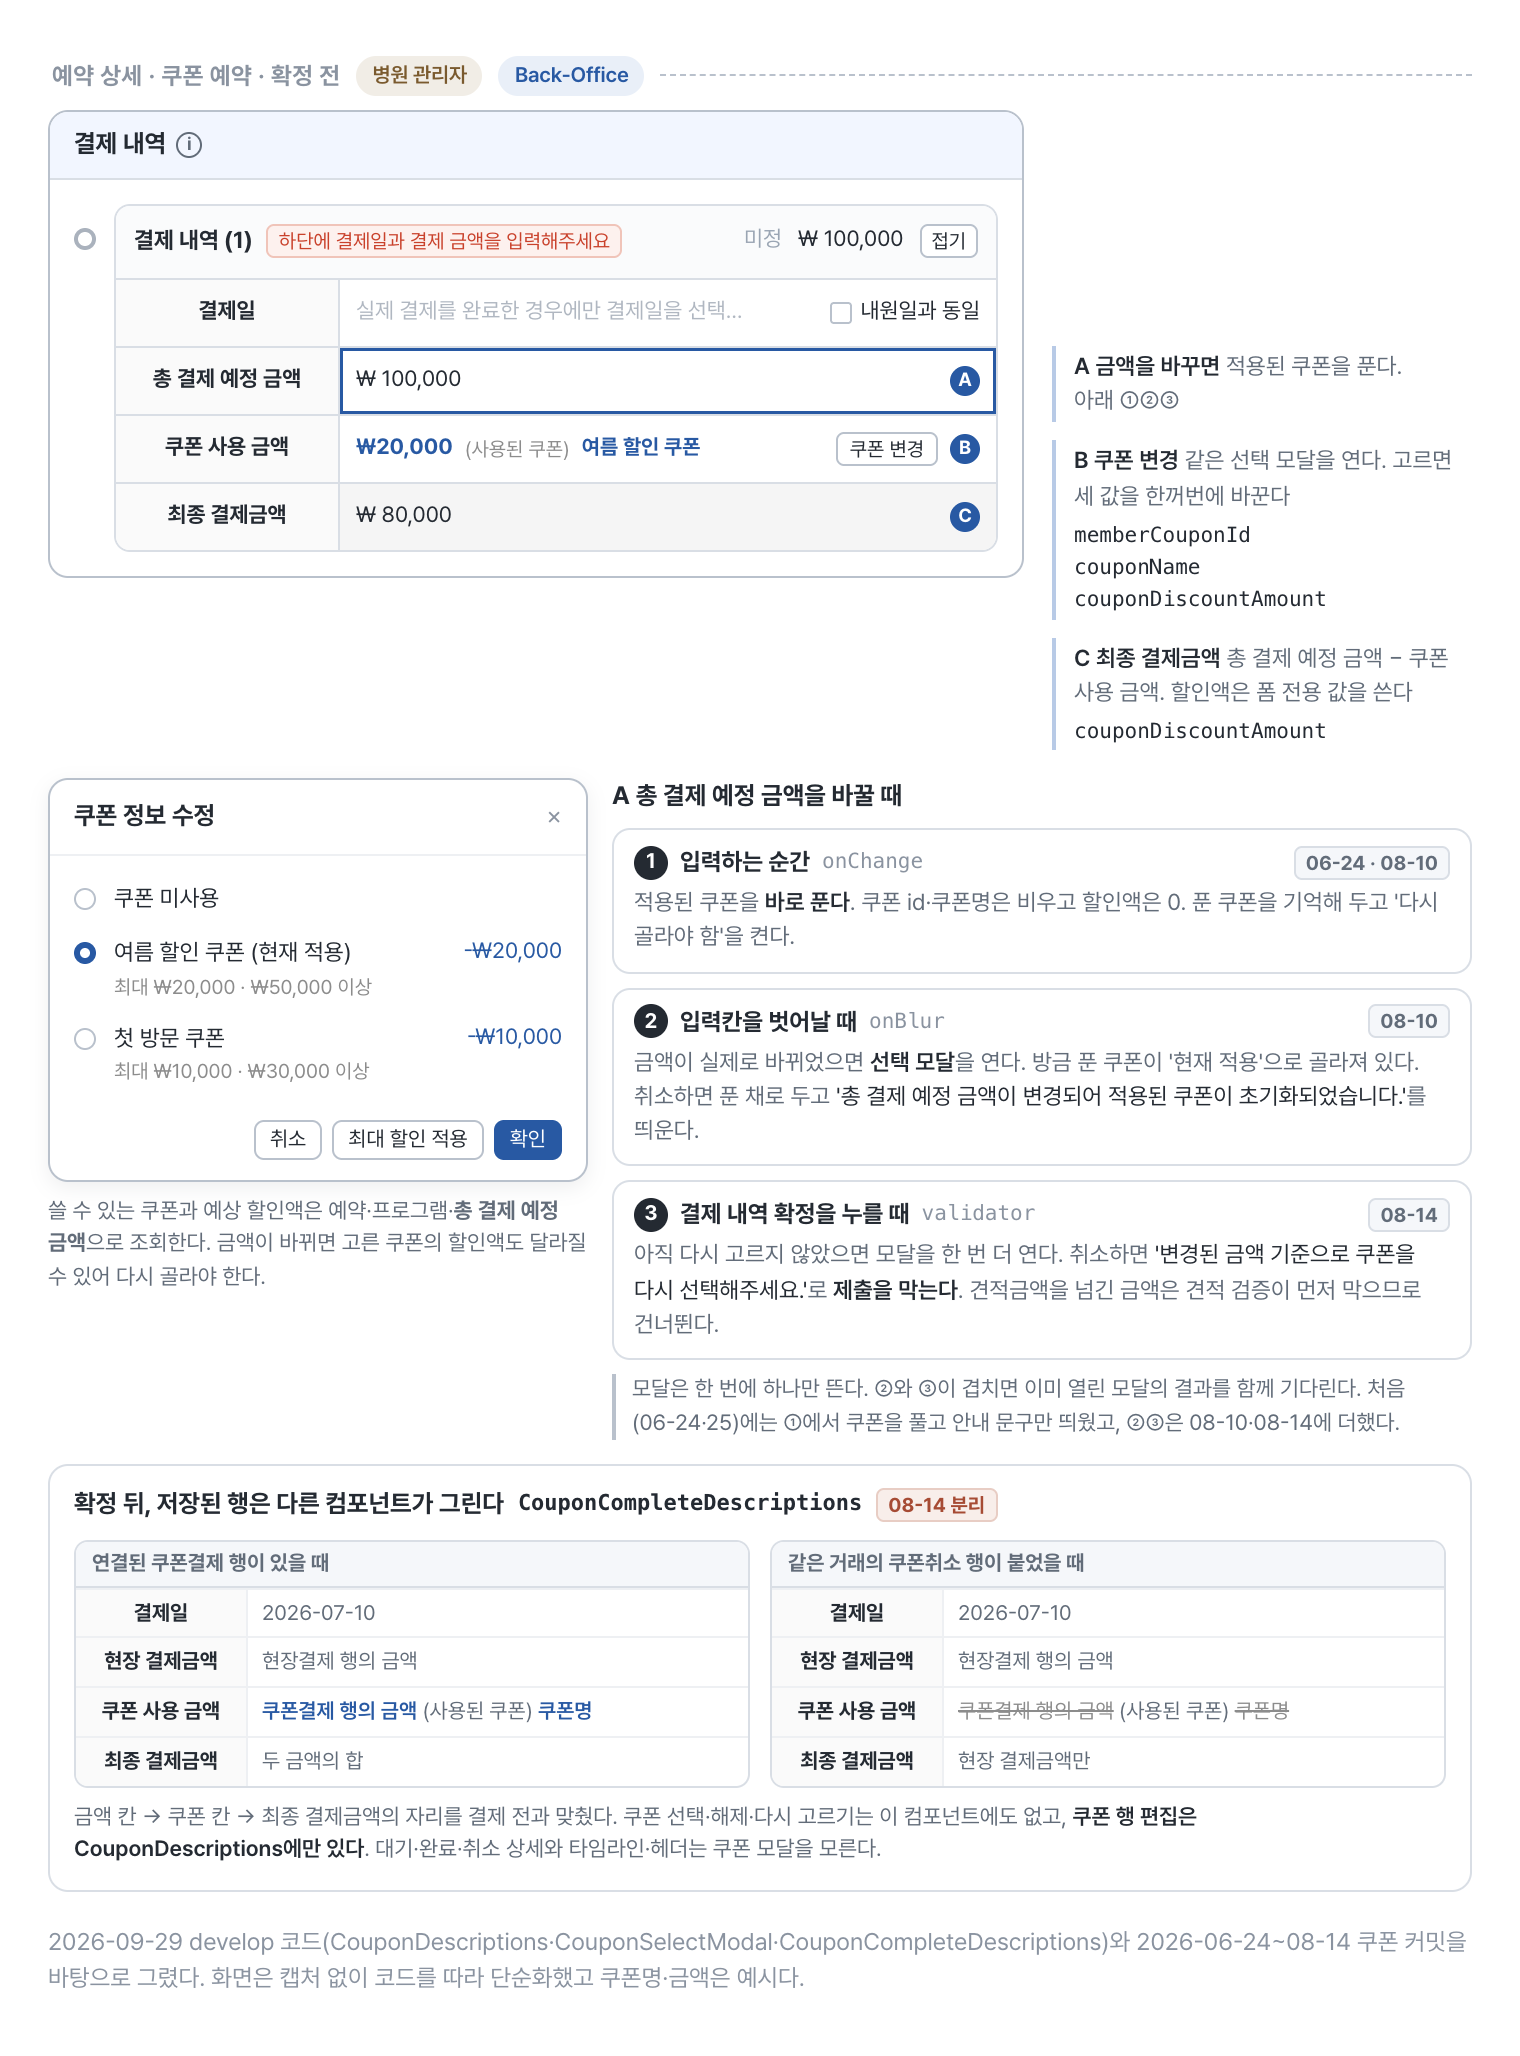
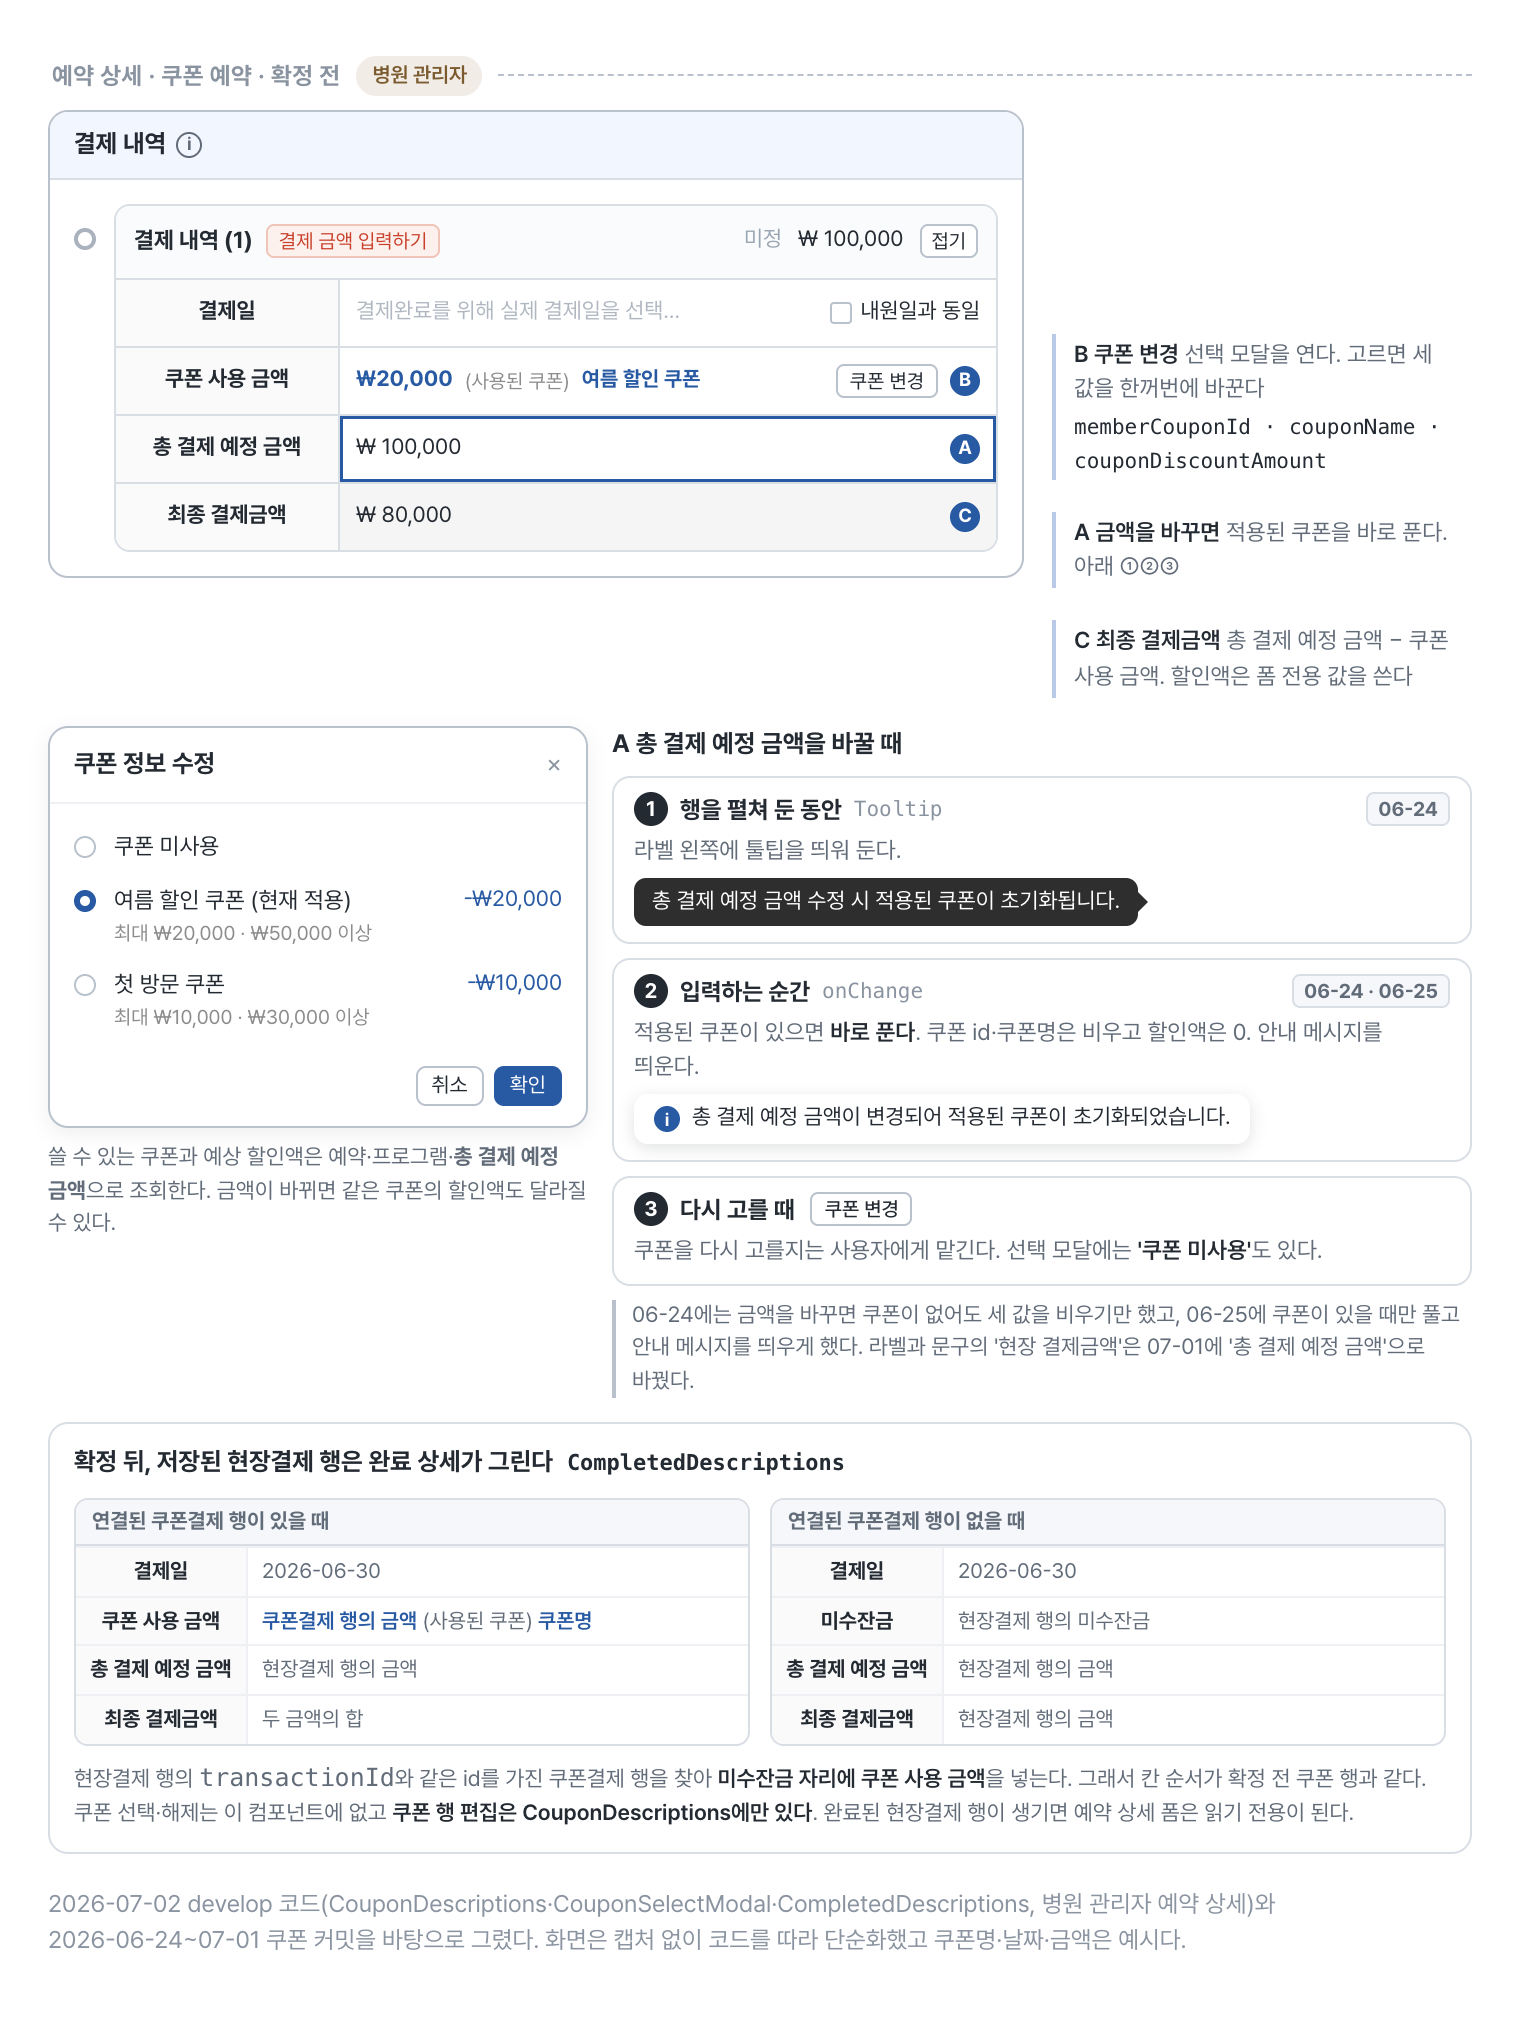
docs(blog): 쿠폰 행 편집 그림을 당시 툴팁·즉시 해제 단계로 다시 그린다

diff --git a/blog/assets/figures/payment-history/src/03-coupon-descriptions.html b/blog/assets/figures/payment-history/src/03-coupon-descriptions.html
@@ -4,7 +4,11 @@
   body { word-break: keep-all; }
   .zone { font-size: 12px; font-weight: 700; color: var(--faint); letter-spacing: 0.2px; margin: 0 0 7px 2px; display: flex; align-items: center; gap: 8px; }
   .zone::after { content: ''; flex: 1; border-top: 1px dashed var(--line-strong); }
-  .zone .app { font-size: 10.5px; }
+  .svc { display: inline-block; font-size: 10.5px; font-weight: 600; padding: 2px 8px; border-radius: 999px; letter-spacing: -0.1px; background: #f1ede6; color: #7a5a2e; }
+  .tipbox { display: inline-block; margin-top: 5px; background: rgba(0, 0, 0, 0.82); color: #fff; font-size: 11px; line-height: 1.45; border-radius: 6px; padding: 4px 9px; position: relative; }
+  .tipbox::after { content: ''; position: absolute; right: -5px; top: calc(50% - 5px); border-top: 5px solid transparent; border-bottom: 5px solid transparent; border-left: 5px solid rgba(0, 0, 0, 0.82); }
+  .toast { display: inline-flex; align-items: center; gap: 6px; margin-top: 5px; background: #fff; border-radius: 7px; box-shadow: 0 2px 8px rgba(36, 42, 50, 0.14); font-size: 11px; color: var(--ink); padding: 4px 10px; }
+  .toast i { font-style: normal; width: 13px; height: 13px; border-radius: 50%; background: var(--blue); color: #fff; font-size: 9px; font-weight: 700; display: inline-flex; align-items: center; justify-content: center; }
 
   /* 화면 */
   .screen { display: grid; grid-template-columns: 488px minmax(0, 1fr); gap: 14px; align-items: start; }
@@ -37,7 +41,7 @@
   .mk { display: inline-flex; align-items: center; justify-content: center; width: 16px; height: 16px; border-radius: 50%; background: var(--blue); color: #fff; font-size: 10px; font-weight: 700; flex-shrink: 0; }
   .mk.sm { width: 15px; height: 15px; font-size: 9.5px; }
 
-  .side { display: flex; flex-direction: column; gap: 9px; padding-top: 118px; min-width: 0; }
+  .side { display: flex; flex-direction: column; gap: 16px; padding-top: 112px; min-width: 0; }
   .anno { border-left: 2px solid var(--blue-line); padding: 2px 0 2px 9px; font-size: 11.5px; color: var(--sub); line-height: 1.5; }
   .anno b { color: var(--ink); font-weight: 600; }
   .anno code { font-size: 10.5px; color: var(--ink); }
@@ -91,7 +95,7 @@
 </style></head>
 <body>
 
-<div class="zone">예약 상세 · 쿠폰 예약 · 확정 전 <span class="app pa">병원 관리자</span><span class="app bo">Back-Office</span></div>
+<div class="zone">예약 상세 · 쿠폰 예약 · 확정 전 <span class="svc">병원 관리자</span></div>
 
 <div class="screen">
   <div class="mock">
@@ -99,19 +103,19 @@
     <div class="tl">
       <span class="dot"></span>
       <div class="col">
-        <div class="ch"><b>결제 내역 (1)</b><span class="t red">하단에 결제일과 결제 금액을 입력해주세요</span><span class="r">미정<span class="amt">₩ 100,000</span><span class="xbtn">접기</span></span></div>
-        <div class="dr"><span>결제일</span><span class="ph">실제 결제를 완료한 경우에만 결제일을 선택…<span class="cbx">내원일과 동일</span></span></div>
-        <div class="dr hl"><span>총 결제 예정 금액</span><span>₩ 100,000 <span class="mk sm" style="margin-left:auto">A</span></span></div>
+        <div class="ch"><b>결제 내역 (1)</b><span class="t red">결제 금액 입력하기</span><span class="r">미정<span class="amt">₩ 100,000</span><span class="xbtn">접기</span></span></div>
+        <div class="dr"><span>결제일</span><span class="ph">결제완료를 위해 실제 결제일을 선택…<span class="cbx">내원일과 동일</span></span></div>
         <div class="dr"><span>쿠폰 사용 금액</span><span><span class="cp">₩20,000</span><span class="cp-sub">(사용된 쿠폰)</span><span class="cp" style="font-size:10.5px">여름 할인 쿠폰</span><span class="sbtn">쿠폰 변경</span><span class="mk sm">B</span></span></div>
+        <div class="dr hl"><span>총 결제 예정 금액</span><span>₩ 100,000 <span class="mk sm" style="margin-left:auto">A</span></span></div>
         <div class="dr"><span>최종 결제금액</span><span class="fill">₩ 80,000 <span class="mk sm" style="margin-left:auto">C</span></span></div>
       </div>
     </div>
   </div>
 
   <div class="side">
-    <div class="anno"><b>A 금액을 바꾸면</b> 적용된 쿠폰을 푼다. <span class="nw">아래 ①②③</span></div>
-    <div class="anno"><b>B 쿠폰 변경</b> 같은 선택 모달을 연다. 고르면 세 값을 한꺼번에 바꾼다<span class="fl" style="margin-top:2px">memberCouponId</span><span class="fl">couponName</span><span class="fl">couponDiscountAmount</span></div>
-    <div class="anno"><b>C 최종 결제금액</b> 총 결제 예정 금액 − 쿠폰 사용 금액. 할인액은 폼 전용 값을 쓴다<span class="fl" style="margin-top:2px">couponDiscountAmount</span></div>
+    <div class="anno"><b>B 쿠폰 변경</b> 선택 모달을 연다. 고르면 세 값을 한꺼번에 바꾼다<span class="fl" style="margin-top:2px">memberCouponId · couponName ·<br>couponDiscountAmount</span></div>
+    <div class="anno"><b>A 금액을 바꾸면</b> 적용된 쿠폰을 바로 푼다. <span class="nw">아래 ①②③</span></div>
+    <div class="anno"><b>C 최종 결제금액</b> 총 결제 예정 금액 − 쿠폰 사용 금액. 할인액은 폼 전용 값을 쓴다</div>
   </div>
 </div>
 
@@ -124,49 +128,51 @@
         <div class="rd"><i class="on"></i><span>여름 할인 쿠폰 (현재 적용)<small>최대 ₩20,000 · ₩50,000 이상</small></span><span class="dc">-₩20,000</span></div>
         <div class="rd"><i></i><span>첫 방문 쿠폰<small>최대 ₩10,000 · ₩30,000 이상</small></span><span class="dc">-₩10,000</span></div>
       </div>
-      <div class="mf"><span>취소</span><span>최대 할인 적용</span><span class="p">확인</span></div>
+      <div class="mf"><span>취소</span><span class="p">확인</span></div>
     </div>
-    <p class="mnote">쓸 수 있는 쿠폰과 예상 할인액은 예약·프로그램·<b>총 결제 예정 금액</b>으로 조회한다. 금액이 바뀌면 고른 쿠폰의 할인액도 달라질 수 있어 다시 골라야 한다.</p>
+    <p class="mnote">쓸 수 있는 쿠폰과 예상 할인액은 예약·프로그램·<b>총 결제 예정 금액</b>으로 조회한다. 금액이 바뀌면 같은 쿠폰의 할인액도 달라질 수 있다.</p>
   </div>
 
   <div>
     <div class="steps-h">A 총 결제 예정 금액을 바꿀 때</div>
     <div class="step">
-      <div class="step-h"><span class="num">1</span>입력하는 순간<code>onChange</code><span class="when">06-24 · 08-10</span></div>
-      <p>적용된 쿠폰을 <b>바로 푼다</b>. 쿠폰 id·쿠폰명은 비우고 할인액은 0. 푼 쿠폰을 기억해 두고 '다시 골라야 함'을 켠다.</p>
+      <div class="step-h"><span class="num">1</span>행을 펼쳐 둔 동안<code>Tooltip</code><span class="when">06-24</span></div>
+      <p>라벨 왼쪽에 툴팁을 띄워 둔다.</p>
+      <span class="tipbox">총 결제 예정 금액 수정 시 적용된 쿠폰이 초기화됩니다.</span>
     </div>
     <div class="step">
-      <div class="step-h"><span class="num">2</span>입력칸을 벗어날 때<code>onBlur</code><span class="when">08-10</span></div>
-      <p>금액이 실제로 바뀌었으면 <b>선택 모달</b>을 연다. 방금 푼 쿠폰이 '현재 적용'으로 골라져 있다. 취소하면 푼 채로 두고 <span class="q">'총 결제 예정 금액이 변경되어 적용된 쿠폰이 초기화되었습니다.'</span>를 띄운다.</p>
+      <div class="step-h"><span class="num">2</span>입력하는 순간<code>onChange</code><span class="when">06-24 · 06-25</span></div>
+      <p>적용된 쿠폰이 있으면 <b>바로 푼다</b>. 쿠폰 id·쿠폰명은 비우고 할인액은 0. 안내 메시지를 띄운다.</p>
+      <span class="toast"><i>i</i>총 결제 예정 금액이 변경되어 적용된 쿠폰이 초기화되었습니다.</span>
     </div>
     <div class="step">
-      <div class="step-h"><span class="num">3</span>결제 내역 확정을 누를 때<code>validator</code><span class="when">08-14</span></div>
-      <p>아직 다시 고르지 않았으면 모달을 한 번 더 연다. 취소하면 <span class="q">'변경된 금액 기준으로 쿠폰을 다시 선택해주세요.'</span>로 <b>제출을 막는다</b>. 견적금액을 넘긴 금액은 견적 검증이 먼저 막으므로 건너뛴다.</p>
+      <div class="step-h"><span class="num">3</span>다시 고를 때<span class="sbtn" style="margin-left:2px; font-weight:500">쿠폰 변경</span></div>
+      <p>쿠폰을 다시 고를지는 사용자에게 맡긴다. 선택 모달에는 <b>'쿠폰 미사용'</b>도 있다.</p>
     </div>
-    <p class="one">모달은 한 번에 하나만 뜬다. ②와 ③이 겹치면 이미 열린 모달의 결과를 함께 기다린다. 처음(<span class="nw">06-24·25</span>)에는 ①에서 쿠폰을 풀고 안내 문구만 띄웠고, ②③은 <span class="nw">08-10·08-14</span>에 더했다.</p>
+    <p class="one">06-24에는 금액을 바꾸면 쿠폰이 없어도 세 값을 비우기만 했고, 06-25에 쿠폰이 있을 때만 풀고 안내 메시지를 띄우게 했다. 라벨과 문구의 '현장 결제금액'은 <span class="nw">07-01</span>에 '총 결제 예정 금액'으로 바꿨다.</p>
   </div>
 </div>
 
 <div class="after">
-  <div class="after-h">확정 뒤, 저장된 행은 다른 컴포넌트가 그린다<code>CouponCompleteDescriptions</code><span class="when">08-14 분리</span></div>
+  <div class="after-h">확정 뒤, 저장된 현장결제 행은 완료 상세가 그린다<code>CompletedDescriptions</code></div>
   <div class="pairs">
     <div class="mini">
       <div class="mini-h">연결된 쿠폰결제 행이 있을 때</div>
-      <div class="mr"><span>결제일</span><span>2026-07-10</span></div>
-      <div class="mr"><span>현장 결제금액</span><span>현장결제 행의 금액</span></div>
+      <div class="mr"><span>결제일</span><span>2026-06-30</span></div>
       <div class="mr"><span>쿠폰 사용 금액</span><span><span class="cp">쿠폰결제 행의 금액</span> (사용된 쿠폰) <span class="cp">쿠폰명</span></span></div>
+      <div class="mr"><span>총 결제 예정 금액</span><span>현장결제 행의 금액</span></div>
       <div class="mr"><span>최종 결제금액</span><span>두 금액의 합</span></div>
     </div>
     <div class="mini">
-      <div class="mini-h">같은 거래의 쿠폰취소 행이 붙었을 때</div>
-      <div class="mr"><span>결제일</span><span>2026-07-10</span></div>
-      <div class="mr"><span>현장 결제금액</span><span>현장결제 행의 금액</span></div>
-      <div class="mr"><span>쿠폰 사용 금액</span><span><span class="strike">쿠폰결제 행의 금액</span> (사용된 쿠폰) <span class="strike">쿠폰명</span></span></div>
-      <div class="mr"><span>최종 결제금액</span><span>현장 결제금액만</span></div>
+      <div class="mini-h">연결된 쿠폰결제 행이 없을 때</div>
+      <div class="mr"><span>결제일</span><span>2026-06-30</span></div>
+      <div class="mr"><span>미수잔금</span><span>현장결제 행의 미수잔금</span></div>
+      <div class="mr"><span>총 결제 예정 금액</span><span>현장결제 행의 금액</span></div>
+      <div class="mr"><span>최종 결제금액</span><span>현장결제 행의 금액</span></div>
     </div>
   </div>
-  <p>금액 칸 → 쿠폰 칸 → 최종 결제금액의 자리를 결제 전과 맞췄다. 쿠폰 선택·해제·다시 고르기는 이 컴포넌트에도 없고, <b>쿠폰 행 편집은 CouponDescriptions에만 있다</b>. 대기·완료·취소 상세와 타임라인·헤더는 쿠폰 모달을 모른다.</p>
+  <p>현장결제 행의 <code>transactionId</code>와 같은 id를 가진 쿠폰결제 행을 찾아 <b>미수잔금 자리에 쿠폰 사용 금액</b>을 넣는다. 그래서 칸 순서가 확정 전 쿠폰 행과 같다. 쿠폰 선택·해제는 이 컴포넌트에 없고 <b>쿠폰 행 편집은 CouponDescriptions에만 있다</b>. 완료된 현장결제 행이 생기면 예약 상세 폼은 읽기 전용이 된다.</p>
 </div>
 
-<p class="foot">2026-09-29 develop 코드(CouponDescriptions·CouponSelectModal·CouponCompleteDescriptions)와 2026-06-24~08-14 쿠폰 커밋을 바탕으로 그렸다. 화면은 캡처 없이 코드를 따라 단순화했고 쿠폰명·금액은 예시다.</p>
+<p class="foot">2026-07-02 develop 코드(CouponDescriptions·CouponSelectModal·CompletedDescriptions, 병원 관리자 예약 상세)와 <span class="nw">2026-06-24~07-01</span> 쿠폰 커밋을 바탕으로 그렸다. 화면은 캡처 없이 코드를 따라 단순화했고 쿠폰명·날짜·금액은 예시다.</p>
 </body></html>
